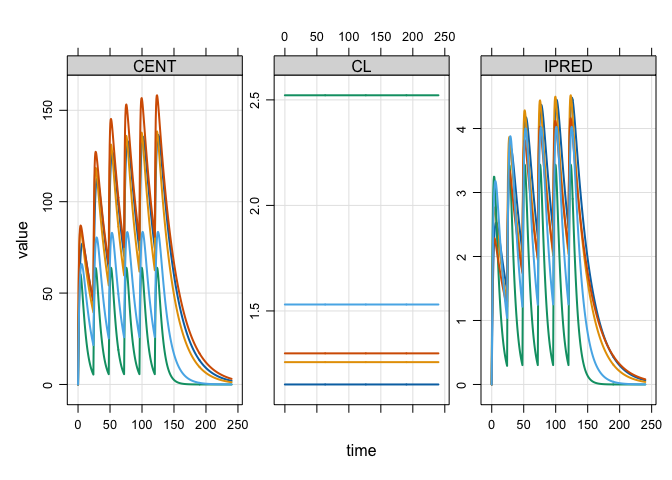
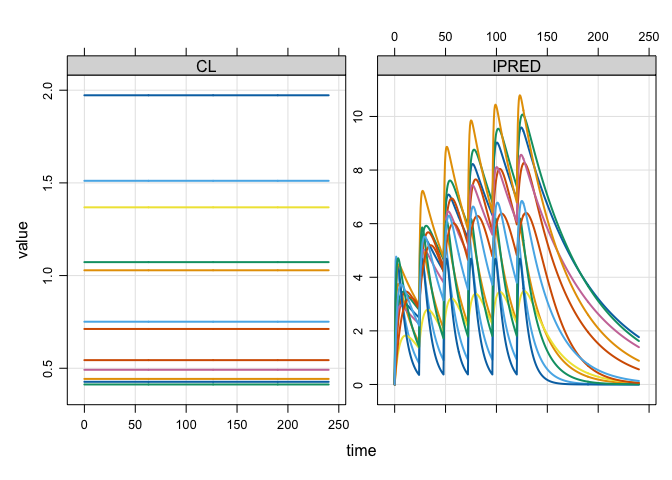
readme

diff --git a/README.md b/README.md
@@ -27,7 +27,7 @@ We will illustrate mrgsim.ds by doing a simulation.
 library(mrgsim.ds)
 library(dplyr)
 
-mod <- modlib_ds("popex", end = 240, outvars = c("CL,CENT,IPRED"))
+mod <- modlib_ds("popex", end = 240, outvars = c("IPRED,CL"))
 
 data <- expand.ev(amt = 100, ii = 24, total = 6, ID = 1:1000)
 ```
@@ -39,17 +39,17 @@ out <- mrgsim_ds(mod, data)
 
 out
 . Model: popex
-. Dim  : 482.0K 5
-. Files: 1 [8 Mb]
-.     ID time     CENT       CL     IPRED
-. 1:   1  0.0  0.00000 1.151629 0.0000000
-. 2:   1  0.0  0.00000 1.151629 0.0000000
-. 3:   1  0.5 16.74061 1.151629 0.5493976
-. 4:   1  1.0 30.33797 1.151629 0.9956393
-. 5:   1  1.5 41.32930 1.151629 1.3563553
-. 6:   1  2.0 50.16086 1.151629 1.6461919
-. 7:   1  2.5 57.20341 1.151629 1.8773161
-. 8:   1  3.0 62.76491 1.151629 2.0598348
+. Dim  : 482.0K 4
+. Files: 1 [4.1 Mb]
+.     ID time        CL     IPRED
+. 1:   1  0.0 0.4269356 0.0000000
+. 2:   1  0.0 0.4269356 0.0000000
+. 3:   1  0.5 0.4269356 0.9261468
+. 4:   1  1.0 0.4269356 1.5977554
+. 5:   1  1.5 0.4269356 2.0829507
+. 6:   1  2.0 0.4269356 2.4316377
+. 7:   1  2.5 0.4269356 2.6803743
+. 8:   1  3.0 0.4269356 2.8559408
 ```
 
 The output object doesn’t actually carry the simulated data, but rather
@@ -57,41 +57,41 @@ a pointer to the data in parquet files on your disk.
 
 ``` r
 out$files
-. [1] "/private/var/folders/zv/v6tkdhrn1_bb1ndrc0c0j31w0000gp/T/RtmpGELVzL/mrgsims-ds-7eca78ffa049.parquet"
+. [1] "/private/var/folders/zv/v6tkdhrn1_bb1ndrc0c0j31w0000gp/T/RtmpHTQIUM/mrgsims-ds-814147d89002.parquet"
 ```
 
 But, we can do a lot of the typical things we would with any mrgsim
 output object.
 
 ``` r
-plot(out)
+plot(out, nid = 12)
 ```
 
 <img src="man/figures/README-plot_head_tail_dim-1.png" alt="" width="100%" />
 
 ``` r
 head(out)
-. # A tibble: 6 × 5
-.      ID  time  CENT    CL IPRED
-.   <dbl> <dbl> <dbl> <dbl> <dbl>
-. 1     1   0     0    1.15 0    
-. 2     1   0     0    1.15 0    
-. 3     1   0.5  16.7  1.15 0.549
-. 4     1   1    30.3  1.15 0.996
-. 5     1   1.5  41.3  1.15 1.36 
-. 6     1   2    50.2  1.15 1.65
+. # A tibble: 6 × 4
+.      ID  time    CL IPRED
+.   <dbl> <dbl> <dbl> <dbl>
+. 1     1   0   0.427 0    
+. 2     1   0   0.427 0    
+. 3     1   0.5 0.427 0.926
+. 4     1   1   0.427 1.60 
+. 5     1   1.5 0.427 2.08 
+. 6     1   2   0.427 2.43
 tail(out)
-. # A tibble: 6 × 5
-.      ID  time  CENT    CL IPRED
-.   <dbl> <dbl> <dbl> <dbl> <dbl>
-. 1  1000  238.  5.10 0.817 0.216
-. 2  1000  238   5.01 0.817 0.212
-. 3  1000  238.  4.93 0.817 0.208
-. 4  1000  239   4.84 0.817 0.205
-. 5  1000  240.  4.76 0.817 0.201
-. 6  1000  240   4.68 0.817 0.198
+. # A tibble: 6 × 4
+.      ID  time    CL    IPRED
+.   <dbl> <dbl> <dbl>    <dbl>
+. 1  1000  238. 0.987 0.000750
+. 2  1000  238  0.987 0.000720
+. 3  1000  238. 0.987 0.000691
+. 4  1000  239  0.987 0.000663
+. 5  1000  240. 0.987 0.000636
+. 6  1000  240  0.987 0.000610
 dim(out)
-. [1] 482000      5
+. [1] 482000      4
 ```
 
 This includes coercing to different types of objects. We can get the
@@ -99,19 +99,19 @@ usual R data frames
 
 ``` r
 as_tibble(out)
-. # A tibble: 482,000 × 5
-.       ID  time  CENT    CL IPRED
-.    <dbl> <dbl> <dbl> <dbl> <dbl>
-.  1     1   0     0    1.15 0    
-.  2     1   0     0    1.15 0    
-.  3     1   0.5  16.7  1.15 0.549
-.  4     1   1    30.3  1.15 0.996
-.  5     1   1.5  41.3  1.15 1.36 
-.  6     1   2    50.2  1.15 1.65 
-.  7     1   2.5  57.2  1.15 1.88 
-.  8     1   3    62.8  1.15 2.06 
-.  9     1   3.5  67.1  1.15 2.20 
-. 10     1   4    70.4  1.15 2.31 
+. # A tibble: 482,000 × 4
+.       ID  time    CL IPRED
+.    <dbl> <dbl> <dbl> <dbl>
+.  1     1   0   0.427 0    
+.  2     1   0   0.427 0    
+.  3     1   0.5 0.427 0.926
+.  4     1   1   0.427 1.60 
+.  5     1   1.5 0.427 2.08 
+.  6     1   2   0.427 2.43 
+.  7     1   2.5 0.427 2.68 
+.  8     1   3   0.427 2.86 
+.  9     1   3.5 0.427 2.98 
+. 10     1   4   0.427 3.06 
 . # ℹ 481,990 more rows
 ```
 
@@ -120,10 +120,9 @@ Or stay in the arrow ecosystem
 ``` r
 as_arrow_ds(out)
 . FileSystemDataset with 1 Parquet file
-. 5 columns
+. 4 columns
 . ID: double
 . time: double
-. CENT: double
 . CL: double
 . IPRED: double
 . 
@@ -154,15 +153,15 @@ collect(dd)
 .     time Median
 .    <dbl>  <dbl>
 .  1   0    0    
-.  2   0.5  0.901
-.  3   1    1.58 
-.  4   1.5  2.07 
+.  2   0.5  0.915
+.  3   1    1.59 
+.  4   1.5  2.09 
 .  5   2    2.42 
-.  6   2.5  2.65 
-.  7   3    2.81 
-.  8   3.5  2.92 
-.  9  16.5  2.15 
-. 10  17.5  2.07 
+.  6   2.5  2.66 
+.  7   3    2.83 
+.  8   3.5  2.94 
+.  9  16.5  2.16 
+. 10  17.5  2.08 
 . # ℹ 471 more rows
 ```
 
@@ -183,29 +182,29 @@ out2 <- reduce_ds(out2)
 
 out2
 . Model: popex
-. Dim  : 4.8M 5
-. Files: 10 [80.2 Mb]
-.     ID time     CENT        CL     IPRED
-. 1:   1  0.0  0.00000 0.9594254 0.0000000
-. 2:   1  0.0  0.00000 0.9594254 0.0000000
-. 3:   1  0.5 22.04630 0.9594254 0.9796388
-. 4:   1  1.0 38.71305 0.9594254 1.7202345
-. 5:   1  1.5 51.20927 0.9594254 2.2755104
-. 6:   1  2.0 60.47425 0.9594254 2.6872049
-. 7:   1  2.5 67.23771 0.9594254 2.9877427
-. 8:   1  3.0 72.06648 0.9594254 3.2023117
+. Dim  : 4.8M 4
+. Files: 10 [40.7 Mb]
+.     ID time        CL     IPRED
+. 1:   1  0.0 0.3928659 0.0000000
+. 2:   1  0.0 0.3928659 0.0000000
+. 3:   1  0.5 0.3928659 0.4942487
+. 4:   1  1.0 0.3928659 0.8972481
+. 5:   1  1.5 0.3928659 1.2253647
+. 6:   1  2.0 0.3928659 1.4920325
+. 7:   1  2.5 0.3928659 1.7082777
+. 8:   1  3.0 0.3928659 1.8831505
 ```
 
 All arrow files are stored in the tempdir in parquet format
 
 ``` r
 list_temp()
-. 11 files [88.3 Mb]
-. - mrgsims-ds-7eca78ffa049.parquet
-. - mrgsims-ds-7f071002c2aa.parquet
+. 11 files [44.7 Mb]
+. - mrgsims-ds-814147d89002.parquet
+. - mrgsims-ds-817e309c5550.parquet
 .    ...
-. - mrgsims-ds-7f0b1457847b.parquet
-. - mrgsims-ds-7f0b2aee909a.parquet
+. - mrgsims-ds-81823fd11713.parquet
+. - mrgsims-ds-81827557f8ba.parquet
 ```
 
 This directory is eventually removed when the R session ends. Tools are
@@ -216,12 +215,12 @@ retain_temp(out2)
 . Discarding 1 files.
 
 list_temp()
-. 10 files [80.2 Mb]
-. - mrgsims-ds-7f071002c2aa.parquet
-. - mrgsims-ds-7f07253a2f1c.parquet
+. 10 files [40.7 Mb]
+. - mrgsims-ds-817e309c5550.parquet
+. - mrgsims-ds-817e67a5101e.parquet
 .    ...
-. - mrgsims-ds-7f0b1457847b.parquet
-. - mrgsims-ds-7f0b2aee909a.parquet
+. - mrgsims-ds-81823fd11713.parquet
+. - mrgsims-ds-81827557f8ba.parquet
 ```
 
 We also put a finalizer on each object so that, when it goes out of
@@ -246,7 +245,7 @@ out3 <- mrgsim_ds(mod, data) %>% rename_ds("out3")
 
 ``` r
 list_temp()
-. 12 files [96.3 Mb]
+. 12 files [48.8 Mb]
 . - mrgsims-ds-out1-0001.parquet
 . - mrgsims-ds-out2-0001.parquet
 .    ...
@@ -261,12 +260,12 @@ cleaned up.
 
 ``` r
 gc()
-.           used (Mb) gc trigger  (Mb) limit (Mb) max used  (Mb)
-. Ncells 1695832 90.6    2914462 155.7         NA  2914462 155.7
-. Vcells 5555322 42.4   12241802  93.4      16384 10573259  80.7
+.           used (Mb) gc trigger  (Mb) limit (Mb) max used (Mb)
+. Ncells 1695758 90.6    2920608 156.0         NA  2920608  156
+. Vcells 5110276 39.0   12286145  93.8      16384  9164103   70
 
 list_temp()
-. 2 files [16 Mb]
+. 2 files [8.1 Mb]
 . - mrgsims-ds-out1-0001.parquet
 . - mrgsims-ds-out3-0001.parquet
 ```
